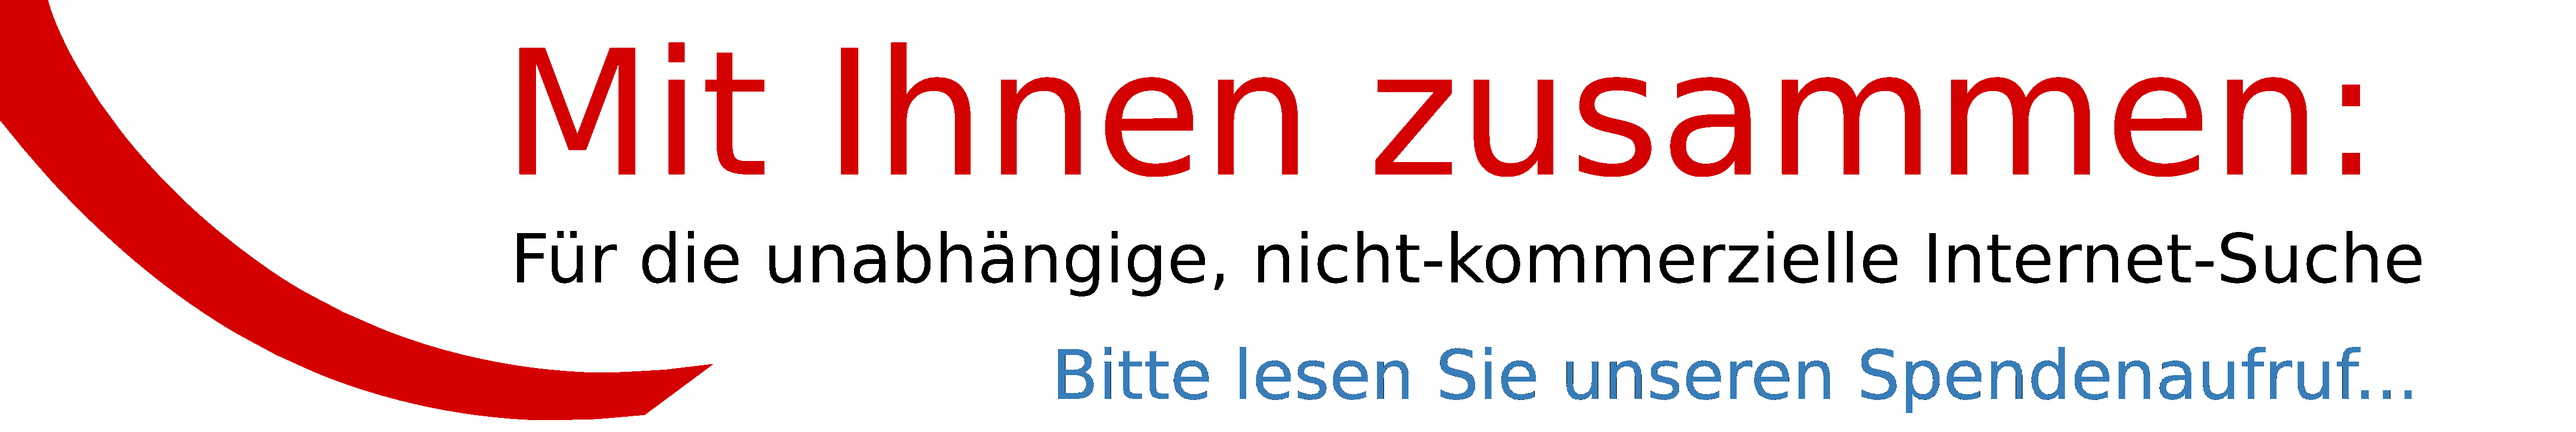
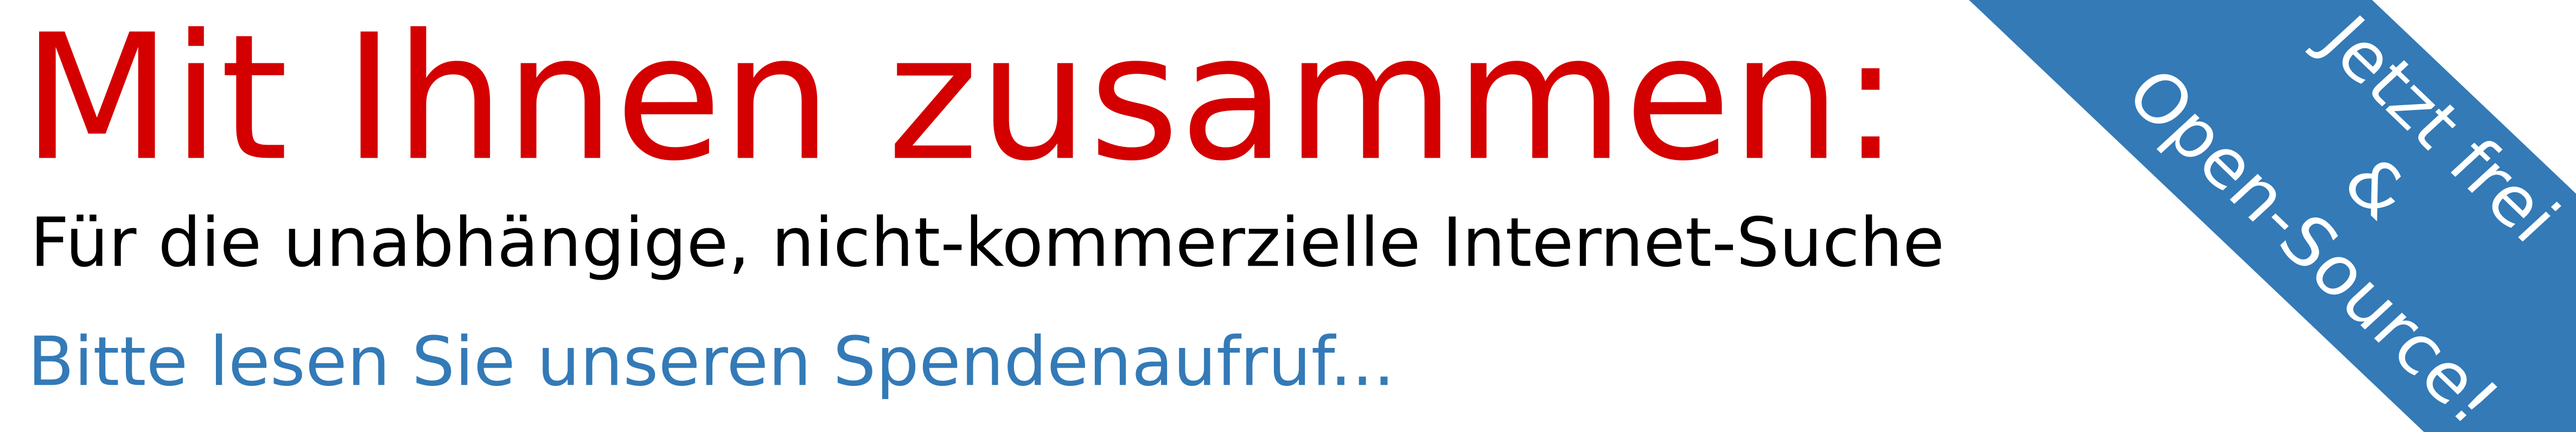
Informationen zum Quellcode von MetaGer eingefügt

diff --git a/resources/views/layouts/staticPages.blade.php b/resources/views/layouts/staticPages.blade.php
@@ -66,6 +66,7 @@
 								<a class="dropdown-toggle" data-toggle="dropdown" role="button" aria-haspopup="true" aria-expanded="false">{{ trans('staticPages.nav15') }}
 								<span class="caret"></span></a>
 								<ul class="dropdown-menu">
+									<li><a href="https:/gitlab.metager3.de/open-source/MetaGer" target="_blank">MetaGer Quellcode</a></li>
 									<li><a href="{{ LaravelLocalization::getLocalizedURL(LaravelLocalization::getCurrentLocale(), "/hilfe/") }}">{{ trans('staticPages.nav9') }}</a></li>
 									<li><a href="{{ LaravelLocalization::getLocalizedURL(LaravelLocalization::getCurrentLocale(), "/widget/") }}">{{ trans('staticPages.nav10') }}</a></li>
 									<li><a href="https://metager.de/klassik/asso/" target="_blank">{{ trans('staticPages.nav11') }}</a></li>

diff --git a/resources/views/spende/spendenaufruf.blade.php b/resources/views/spende/spendenaufruf.blade.php
@@ -55,6 +55,9 @@ im Internet weiter entwickelt und betrieben werden kann:
 <br />
 <a href="{{ LaravelLocalization::getLocalizedURL(LaravelLocalization::getCurrentLocale(), "/spende") }}">{{ LaravelLocalization::getLocalizedURL(LaravelLocalization::getCurrentLocale(), "/spende") }}</a>
 </p>
+<p>
+Den Quellcode von MetaGer erreichen Sie ab sofort unter <a href="https://gitlab.metager3.de/open-source/MetaGer" target="_blank">https://gitlab.metager3.de/open-source/MetaGer</a>
+</p>
 <h3>Helfen Sie mit, dass freie Suchmaschinen im Internet frei bleiben. Das digitale Wissen der Welt muss ohne Bevormundung durch Staaten oder Konzerne frei zugänglich sein und bleiben.</h3>
 <div class="">
 	<div class="col-sm-6">
